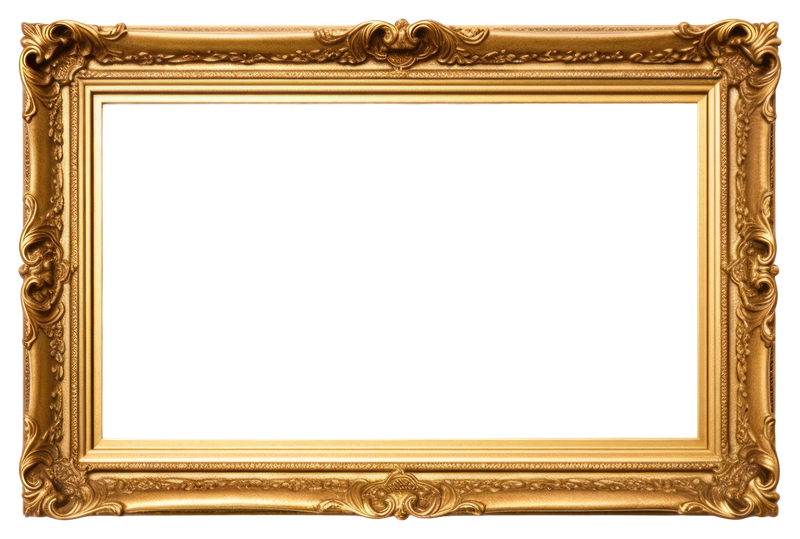
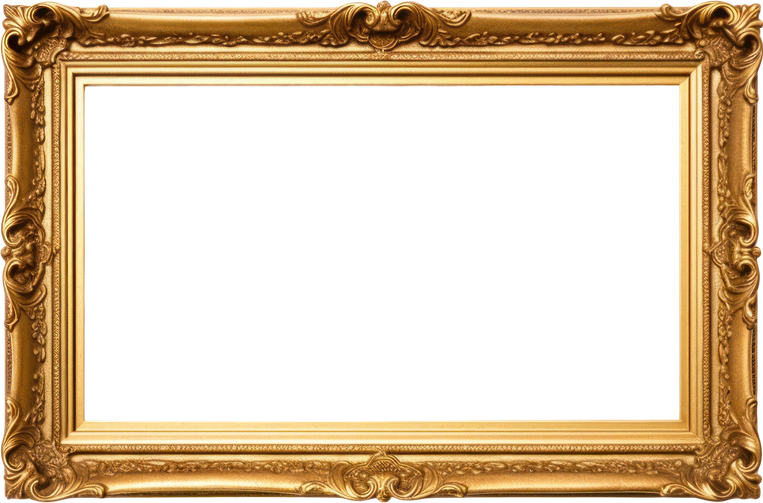
added in all 7 frames

diff --git a/public/resources/styles.css b/public/resources/styles.css
@@ -478,6 +478,102 @@ html {
     padding: var(--f1-bleed);
 }
 
+.frame2 {
+    --f2-height: 315px;
+    --f2-width: 231px;
+    --f2-inset: 34px;
+    --f2-bleed: 20px;
+    height: var(--f2-height);
+    width: var(--f2-width);
+}
+
+.frame2 div {
+    height: calc(var(--f2-height) - (var(--f2-inset) * 2));
+    width: calc(var(--f2-width) - (var(--f2-inset) * 2));
+    margin: calc(var(--f2-inset) - var(--f2-bleed));
+    padding: var(--f2-bleed);
+}
+
+.frame3 {
+    --f3-height: 315px;
+    --f3-width: 245px;
+    --f3-inset: 50px;
+    --f3-bleed: 20px;
+    height: var(--f3-height);
+    width: var(--f3-width);
+}
+
+.frame3 div {
+    height: calc(var(--f3-height) - (var(--f3-inset) * 2));
+    width: calc(var(--f3-width) - (var(--f3-inset) * 2));
+    margin: calc(var(--f3-inset) - var(--f3-bleed));
+    padding: var(--f3-bleed);
+}
+
+.frame4 {
+    --f4-height: 315px;
+    --f4-width: 218px;
+    --f4-inset: 39px;
+    --f4-bleed: 20px;
+    height: var(--f4-height);
+    width: var(--f4-width);
+}
+
+.frame4 div {
+    height: calc(var(--f4-height) - (var(--f4-inset) * 2));
+    width: calc(var(--f4-width) - (var(--f4-inset) * 2));
+    margin: calc(var(--f4-inset) - var(--f4-bleed));
+    padding: var(--f4-bleed);
+}
+
+.frame5 {
+    --f5-height: 315px;
+    --f5-width: 477px;
+    --f5-inset: 55px;
+    --f5-bleed: 25px;
+    height: var(--f5-height);
+    width: var(--f5-width);
+}
+
+.frame5 div {
+    height: calc(var(--f5-height) - (var(--f5-inset) * 2));
+    width: calc(var(--f5-width) - (var(--f5-inset) * 2));
+    margin: calc(var(--f5-inset) - var(--f5-bleed));
+    padding: var(--f5-bleed);
+}
+
+.frame6 {
+    --f6-height: 315px;
+    --f6-width: 213px;
+    --f6-inset: 36px;
+    --f6-bleed: 14px;
+    height: var(--f6-height);
+    width: var(--f6-width);
+}
+
+.frame6 div {
+    height: calc(var(--f6-height) - (var(--f6-inset) * 2));
+    width: calc(var(--f6-width) - (var(--f6-inset) * 2));
+    margin: calc(var(--f6-inset) - var(--f6-bleed));
+    padding: var(--f6-bleed);
+}
+
+.frame7 {
+    --f7-height: 315px;
+    --f7-width: 253px;
+    --f7-inset: 51px;
+    --f7-bleed: 20px;
+    height: var(--f7-height);
+    width: var(--f7-width);
+}
+
+.frame7 div {
+    height: calc(var(--f7-height) - (var(--f7-inset) * 2));
+    width: calc(var(--f7-width) - (var(--f7-inset) * 2));
+    margin: calc(var(--f7-inset) - var(--f7-bleed));
+    padding: var(--f7-bleed);
+}
+
 /*This section for absolute position bg images*/
 .sticker-bg {
     overflow: hidden;
